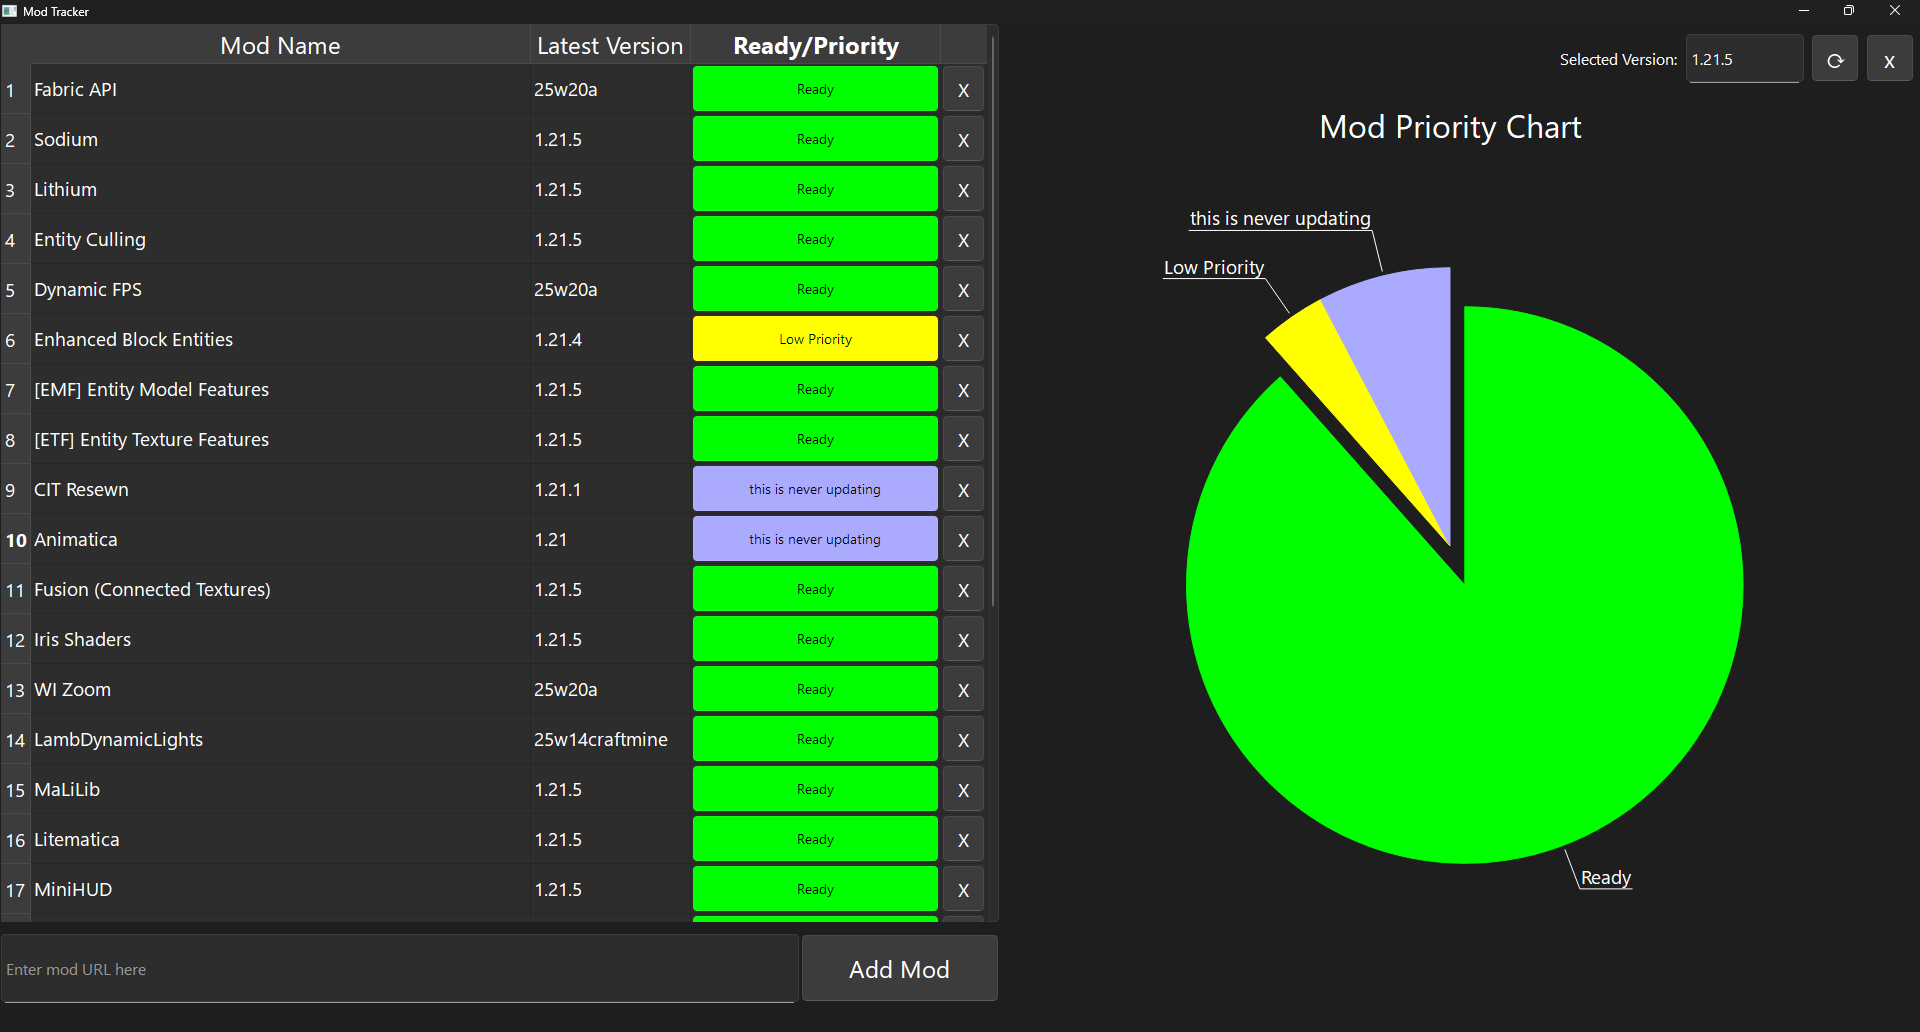
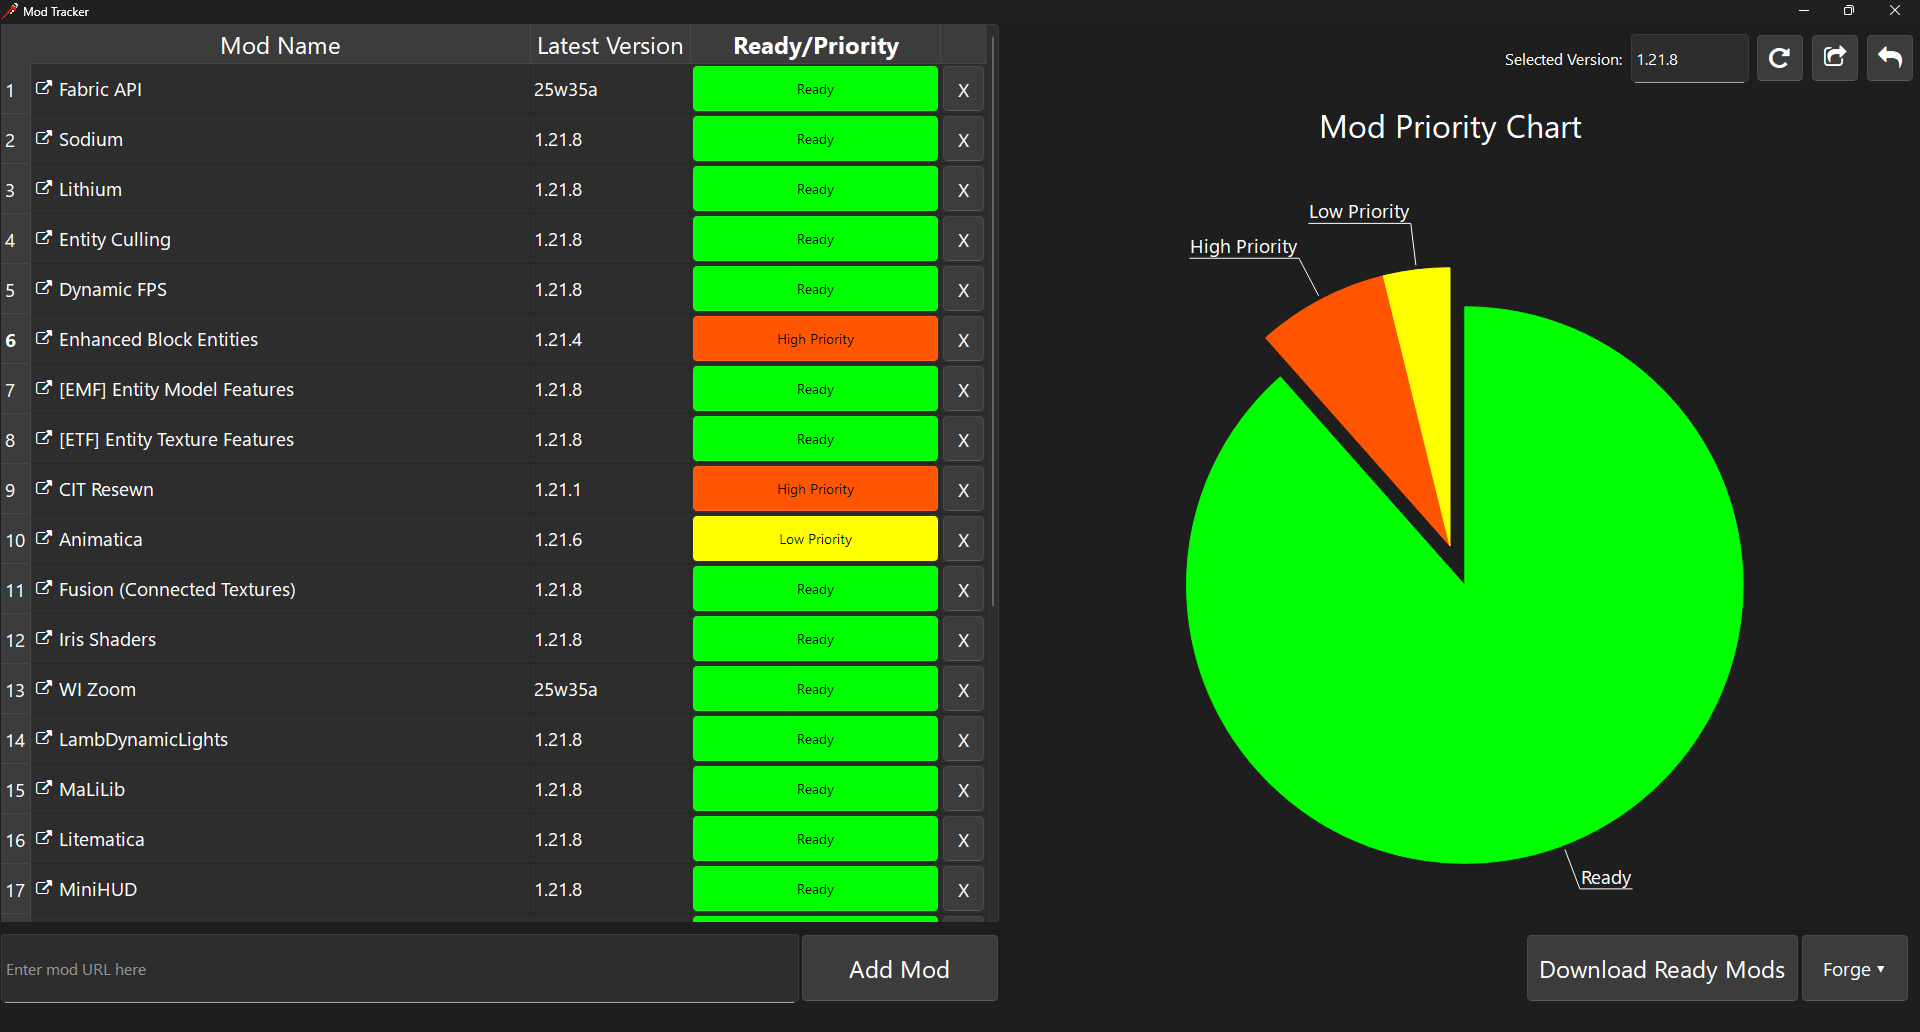
Updated README
Expanded the README to highlight new features in Beta 3.0. Rephrased and reorganized a lot of the introduction to be more concise. Removed the second explanation in the Project Details section (now Technical Details). Updated screenshots to reflect the latest UI.

diff --git a/README.md b/README.md
@@ -1,12 +1,22 @@
 # Mod Tracker
 
-Mod tracker is an app that helps you keep track of the mods you've been so patiently waiting on updating to the newest Minecraft version. Say goodbye to that mile long bookmark folder of Mondrinth and CurseForge links - Mod Tracker will do the job for you!
+Make downloading and keeping track of all your mods easy and seemless!
 
-**[Click here for download instructions](#how-to-download)**
+Mod tracker is a windows app that keeps track of the mods you're waiting on to update to the latest Minecraft version. It also lets you download all them with a single click, easily share them with your friends, and more! Say goodbye to that mile long bookmark folder of Mondrinth and CurseForge links - Mod Tracker will do the job for you!
 
-*Please note that this app is still in beta, so expect some bugs. If you encounter a bug, or have ideas on how to improve Mod Tracker, create an issue on our [issues page](https://github.com/BigBoland41/ModTracker/issues).*
+- Create profile(s) - a list of Minecraft mods you want track. Either Modrinth or CurseForge will work!
+- Easily see what mods are updated by looking at the color-coded list or detailed pie chart.
+- **New!** Download all your mods with a single click!
+- **New!** Share your mods easily by exporting your profile.
+- Assign priority levels to categorize your must-have mods your nice-to-have mods. (This is reflected in the pie chart!)
+
+**[Download here!](https://github.com/BigBoland41/ModTracker/releases)**
+[Click here for instructions](#how-to-download)
 
 ![alt text](screenshot%201.png)
+
+*Please note that this app is still in beta, so expect some bugs. If you encounter a bug or have ideas to improve Mod Tracker, create an issue on our [issues page](https://github.com/BigBoland41/ModTracker/issues).*
+
 
 ## How to Download
 1. Go to our [releases page](https://github.com/BigBoland41/ModTracker/releases).
@@ -16,30 +26,18 @@ Mod tracker is an app that helps you keep track of the mods you've been so patie
 Alternatively, you can install the executable directly from the latest action on our [actions page](https://github.com/BigBoland41/ModTracker/actions/workflows/build-test.yml). Note that there is currently a bug where the unittest results will be blank.
 
 
-## Changes in Beta 2.0
-- **Proper Curseforge support!** While it was technically supported it in our MVP, we actually used the Mondrinth data instead, and didn't support mods only found on Curseforge.
-- **Massive improvement in loading times** achieved by putting each mod's API call on a separate thread.
-- **New loading window** that displays when the app is launching. In the future we want it to be animated, but for now it's just a still image.
-- **Added an app icon** created by us - a Minecraft monkey wrench!
-- Mod Tracker is now distributed with an installer, not just a plain exe file.
-- Error text will now appear when the user attempts to add a mod with an invalid URL.
-- The user can now give a mod a custom priority level that was created in another profile.
-- Data is saved to file more often.
+## Changes in Beta 3.0 - Downloading and Exporting!
+- **Download all your mods with one click!** A new "download all ready mods" button has been added to the profile details screen, along with a dropdown that lets you select the mod loader to use. Currently, the options are Forge, Fabric, Neoforge, and Quilt, but if there's demand for more, it shouldn't be too difficult to add!
+- **Importing and exporting profiles!** Share your mod profile with a friend by clicking the new export button in the profile details screen. They can import it using the new import button in the profile select screen.
+- Profiles can now be deleted from the profile select screen.
+- Clicking on a mod's name from the mod list will open that mod's Modrinth or Curseforge page in your web browser.
+- New pretty button icons have been added by importing Fontello - a font containing lots of commonly used icons. The license is included in the font folder.
 - Bugfixes and refactoring.
 
 If there are any issues with this version Mod Tracker, report it on our [issues page](https://github.com/BigBoland41/ModTracker/issues).
 
-## Project Details
-
-### Motivation and Objective
-
-A large portion of the Minecraft player base installs mods for their game. However, mods only support specific versions of Minecraft, so when a update is released, mods become outdated and need to be updated manually by their developer. When using lots mods, it can be difficult to keep track of which mods support which versions, and which are ready for the next update. People often did this by just going down a list of links from Modrinth and Curseforge, manually checking each mod's version.
-
-Our goal is to make the experience of keeping track of all your mods easy and seemless.
-
-ModTracker is a desktop application designed to simplify the task of tracking supported game versions for Minecraft mods. Users can create profiles containing a list of selected Minecraft mods to track. The profile will display information based on the Minecraft version the user wishes to target. Each mod in a profile will have a priority level indicating the importance of that mod to be supported by the selected Minecraft version. Using the assigned priority levels and the supported versions of each mod, ModTracker will graph the proportion of supported and unsupported mods for the selected game version.
-
-### How to Run Our Project
+## Technical Details
+For those who want to download this repository on your own computer, here's some helpful information.
 
 To run Mod Tracker in your IDE:
 - Install Python 3, then install the PyQt6, requests, and PyQt6-Charts libraries using pip.
@@ -56,4 +54,4 @@ To generate your own installer:
 
 To run unit tests, run the tests.py file. You can also test specific modules using a file with the test_ prefix, found in the tests directory.
 
-<sup> README updated 5/15/2025
+<sup> README updated 8/30/2025 (unless I forgot to update this)
